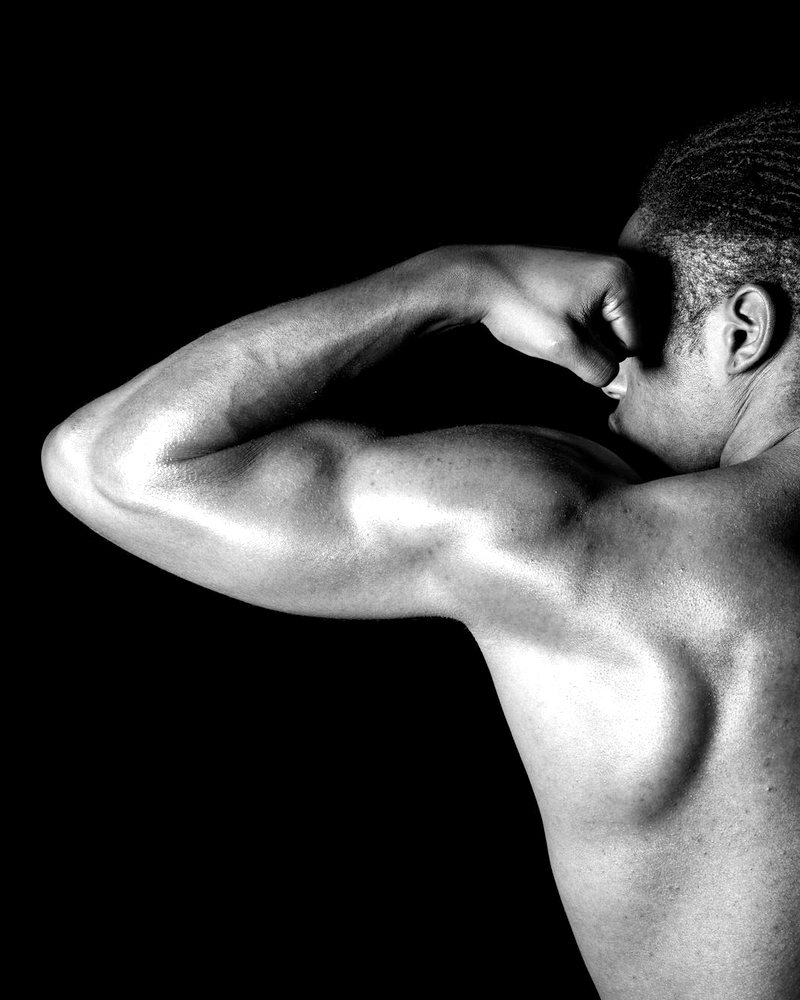
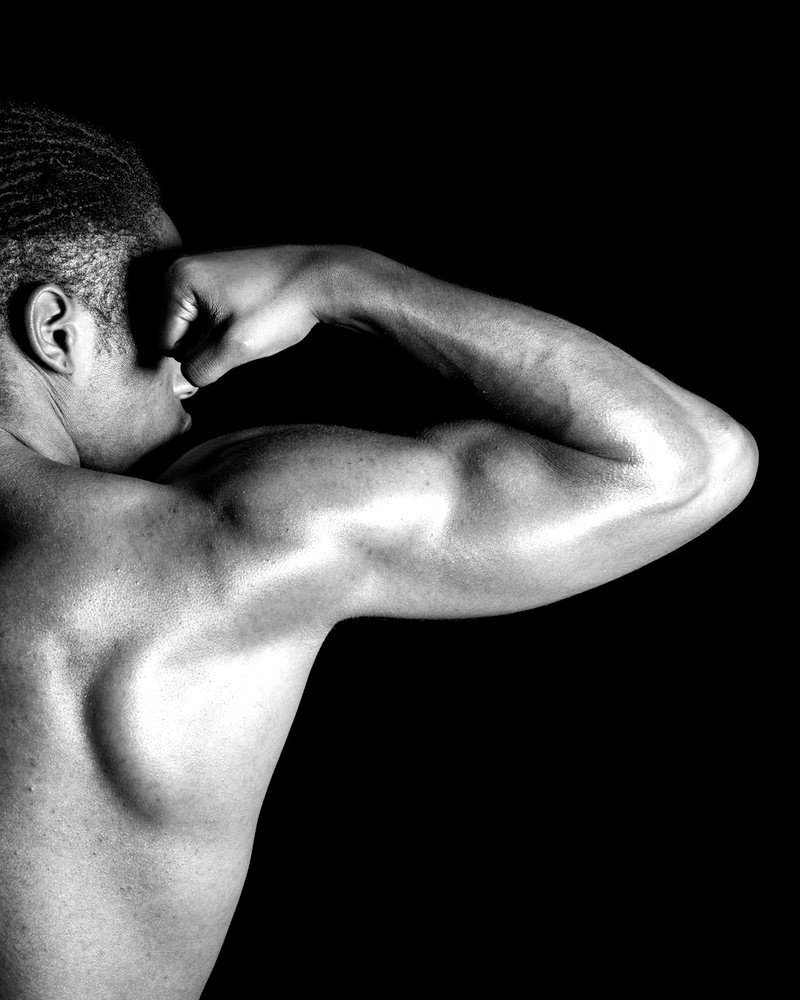
White gallery: blank paper ahead of the edge, plain test strip, face develops first
The undeveloped part of the print is now blank paper with a soft leading edge
(a judge read the ghosted photo as a glitch), the workout test strip starts
blank, the portrait is mirrored so the face comes first, the frame is thinner,
and short phones get a one-row rest bar that keeps weight and reps reachable.

Claude-Session: https://claude.ai/code/session_01QEFD11h7uMZ5waJMnW8i9k

diff --git a/site/_prototypes/gallery/index.html b/site/_prototypes/gallery/index.html
@@ -62,8 +62,8 @@ h2 { font-size: 30px; line-height: 1.05; font-weight: 500; letter-spacing: -.012
 .lang button.on { color: var(--ink); }
 
 /* ---------- the framed print ---------- */
-.frame { display: block; background: var(--ink); padding: 3px; width: 100%;
-  box-shadow: 0 1px 0 rgba(12, 12, 13, .2), 0 14px 22px -10px rgba(12, 12, 13, .38), 0 36px 50px -28px rgba(12, 12, 13, .34); }
+.frame { display: block; background: var(--ink); padding: 2px; width: 100%;
+  box-shadow: 0 12px 20px -10px rgba(12, 12, 13, .3), 0 32px 44px -28px rgba(12, 12, 13, .28); }
 .mat { display: block; background: var(--paper); padding: 13px; }
 .canv { display: block; position: relative; box-shadow: 0 0 0 1px rgba(12, 12, 13, .1); background: #F6F4EF; }
 .canv canvas { display: block; width: 100%; height: auto; aspect-ratio: 4 / 5; }
@@ -125,11 +125,12 @@ button.frame:active { transform: scale(.985); }
 .strip { position: relative; height: clamp(96px, 20vh, 168px); overflow: hidden; background: #F6F4EF; }
 /* The test strip: a band of the same print. Under every strip lies the finished photograph; on top lies the print as it
    stands today, still pale. Logging a set fades that strip's top layer away, so the finished tones come up strip by strip. */
-.strip .full, .cell { position: absolute; inset: 0; background-size: cover; background-position: 50% 37%; }
-.strip .full { background-image: url(img/portrait.jpg); }
-.cell { background-color: #F6F4EF; background-image: var(--stage, none); transition: opacity 1.4s cubic-bezier(.3, .1, .2, 1); }
+.strip .full, .cell { position: absolute; inset: 0; }
+.strip .full { background: url(img/portrait.jpg) 50% 37% / cover; }
+.cell { background: #F6F4EF; transition: opacity 1.4s cubic-bezier(.3, .1, .2, 1); }
+.cell.next, .cell.dev { background: #E2E5FA; }
 .cell.dev { opacity: 0; }
-.cut { position: absolute; top: 0; bottom: 0; width: 1px; margin-left: -.5px; background: var(--paper); }
+.cut { position: absolute; top: 0; bottom: 0; width: 1px; margin-left: -.5px; background: rgba(140, 138, 132, .5); }
 .ruler { position: relative; height: 14px; margin: 7px 10px 0; }
 .tk { position: absolute; top: 0; width: 1px; height: 6px; margin-left: -.5px; background: var(--ink-3); }
 .tk.done { width: 2px; height: 9px; margin-left: -1px; background: var(--ink); }
@@ -194,8 +195,18 @@ button.frame:active { transform: scale(.985); }
 .sumlist .dot { animation: none; margin: 0 1px 0 4px; }
 .summary .note { margin-top: 14px; font-size: 14.5px; max-width: 34ch; }
 .finished #endBtn { visibility: hidden; }
-@media (max-height: 670px) { .live .coach { display: none; } .live { padding-top: 14px; } }
 @media (max-height: 760px) { .rest { height: 132px; } .rest-time { font-size: 56px; } }
+@media (max-height: 670px) {
+  .live .coach { display: none; } .live { padding-top: 14px; }
+  /* Short phones: rest is one slim row in place of the Log bar, so the weight and reps stay reachable. */
+  .rest { height: 72px; flex-direction: row; align-items: center; justify-content: flex-start; gap: 10px; padding-top: 3px; padding-bottom: 0; }
+  .rest-top, .rest-main { display: contents; }
+  .rest #restLbl { display: none; }
+  .rest .rest-time { order: 1; margin-right: auto; font-size: 40px; line-height: 1; }
+  .rest .txtbtn { order: 2; }
+  .rest .rest-btns { order: 3; gap: 6px; }
+  .rest .rest-btns button { height: 44px; min-width: 58px; padding: 0 10px; }
+}
 
 /* ---------- the print ---------- */
 .print-hang { padding-top: 8px; }
@@ -219,7 +230,6 @@ input[type=range]::-moz-range-track { height: 1px; background: var(--ink); }
 input[type=range]::-moz-range-thumb { width: 26px; height: 26px; background: var(--ink); border: 0; border-radius: 0; }
 .ends { display: flex; justify-content: space-between; margin-top: -4px; }
 .earlier { display: grid; grid-template-columns: 1fr 1fr; gap: 22px; margin-top: 14px; }
-.earlier .frame { padding: 2px; }
 .earlier .mat { padding: 7px; }
 .earlier img { display: block; width: 100%; height: auto; aspect-ratio: 4 / 5; object-fit: cover; }
 .earlier .under img { filter: contrast(.86) brightness(1.12); }
@@ -486,25 +496,25 @@ input[type=range]::-moz-range-thumb { width: 26px; height: 26px; background: var
   const W = 800, H = 1000;
   let dens = null, grain = null;
   const frames = new WeakMap();
-  /* How dark one point of the paper is at progress p: the darkest tones cross the threshold first. */
-  function density(i, lo, gain) {
+  /* The print is 48 strips wide, one per session, developed from left to right. Behind the leading edge a strip
+     needs four more sessions to reach full tone, so the edge is a soft band; ahead of it the paper is blank. */
+  const STRIPS = 48, RAMP = 4, lev = new Float32Array(W);
+  function levels(p) {
+    const front = p * (STRIPS + RAMP);
+    for (let x = 0; x < W; x++) {
+      const L = (front - x * STRIPS / W) / RAMP;
+      lev[x] = L < 0 ? 0 : L > 1 ? 1 : L;
+    }
+  }
+  /* How dark one point of the paper is at level L (0 blank, 1 full tone): the darkest tones cross the threshold first. */
+  function density(i, L) {
+    if (L <= 0) return 0;
     const D = dens[i];
-    let a = (D + grain[i] * 0.04 - lo) / 0.4;
+    let a = (D + grain[i] * 0.04 - 0.88 + 1.3 * L) / 0.4;
     a = a < 0 ? 0 : a > 1 ? 1 : a;
     a = a * a * (3 - 2 * a);
-    const d = D * a * gain, latent = D * 0.05;
-    return d < latent ? latent : d;
-  }
-  /* The print is 48 strips, one per session, developed from left to right. A strip takes six sessions to reach
-     full tone, so the leading edge is a stepped band, like a real test strip. `flat` paints every strip alike. */
-  const STRIPS = 48, RAMP = 6, lo = new Float32Array(STRIPS), gn = new Float32Array(STRIPS);
-  function levels(p, flat) {
-    const front = p * (STRIPS + RAMP);
-    for (let k = 0; k < STRIPS; k++) {
-      let L = flat ? p : (front - k) / RAMP;
-      L = L < 0 ? 0 : L > 1 ? 1 : L;
-      lo[k] = 0.88 - 1.3 * L; gn[k] = 0.86 + 0.14 * L;
-    }
+    const d = D * a * (0.86 + 0.14 * L), latent = D * 0.05;
+    return ((d < latent ? latent : d) + grain[i] * 0.014) * (L < 0.2 ? L * 5 : 1);
   }
   function frameOf(cv) {
     const ctx = cv.getContext('2d');
@@ -512,13 +522,13 @@ input[type=range]::-moz-range-thumb { width: 26px; height: 26px; background: var
     if (!img) { img = ctx.createImageData(W, H); frames.set(cv, img); }
     return [ctx, img];
   }
-  function paint(cv, p, flat) {
+  function paint(cv, p) {
     if (!dens) return;
     const [ctx, img] = frameOf(cv), o = img.data;
-    levels(p, flat);
+    levels(p);
     for (let y = 0, i = 0, j = 0; y < H; y++) {
       for (let x = 0; x < W; x++, i++, j += 4) {
-        const k = (x * STRIPS / W) | 0, d = density(i, lo[k], gn[k]) + grain[i] * 0.014;
+        const d = density(i, lev[x]);
         o[j] = 246 - 233 * d; o[j + 1] = 244 - 231 * d; o[j + 2] = 239 - 225 * d; o[j + 3] = 255;
       }
     }
@@ -528,12 +538,11 @@ input[type=range]::-moz-range-thumb { width: 26px; height: 26px; background: var
   function paintGain(cv, p0, p1) {
     if (!dens) return;
     const [ctx, img] = frameOf(cv), o = img.data;
-    levels(p0); const lo0 = lo.slice(), gn0 = gn.slice();
+    levels(p0); const lev0 = lev.slice();
     levels(p1);
     for (let y = 0, i = 0, j = 0; y < H; y++) {
       for (let x = 0; x < W; x++, i++, j += 4) {
-        const k = (x * STRIPS / W) | 0;
-        let a = (density(i, lo[k], gn[k]) - density(i, lo0[k], gn0[k])) * 7;
+        let a = (density(i, lev[x]) - density(i, lev0[x])) * 7;
         a = a < 0 ? 0 : a > 0.86 ? 0.86 : a;
         o[j] = 26; o[j + 1] = 54; o[j + 2] = 240; o[j + 3] = a * 255;
       }
@@ -550,9 +559,6 @@ input[type=range]::-moz-range-thumb { width: 26px; height: 26px; background: var
       dens = new Float32Array(W * H); grain = new Float32Array(W * H);
       for (let i = 0; i < dens.length; i++) { dens[i] = 1 - d[i * 4] / 255; grain[i] = Math.random() * 2 - 1; }
       paintNow();
-      const st = document.createElement('canvas'); st.width = W; st.height = H; paint(st, 0.4, true);
-      const sx = st.getContext('2d'); sx.globalAlpha = 0.62; sx.fillStyle = '#F6F4EF'; sx.fillRect(0, 0, W, H);
-      document.querySelector('.strip').style.setProperty('--stage', `url(${st.toDataURL('image/jpeg', 0.9)})`);
       requestAnimationFrame(() => requestAnimationFrame(() => app.classList.add('ready')));
     };
     im.src = 'img/portrait.jpg';
@@ -615,7 +621,7 @@ input[type=range]::-moz-range-thumb { width: 26px; height: 26px; background: var
   }
   function drawWork() {
     const n = S.logged.length, ex = PLAN[Math.min(S.exI, PLAN.length - 1)], names = T[lang].ex[ex.id], i = PLAN.indexOf(ex);
-    $('cells').querySelectorAll('.cell').forEach((c, k) => c.classList.toggle('dev', k < n));
+    $('cells').querySelectorAll('.cell').forEach((c, k) => { c.classList.toggle('dev', k < n); c.classList.toggle('next', k === n && !S.finished); });
     [...$('ruler').children].forEach((c, k) => {
       c.className = 'tk' + (k < n ? ' done' : k === n && !S.finished ? ' cur' : '');
     });
